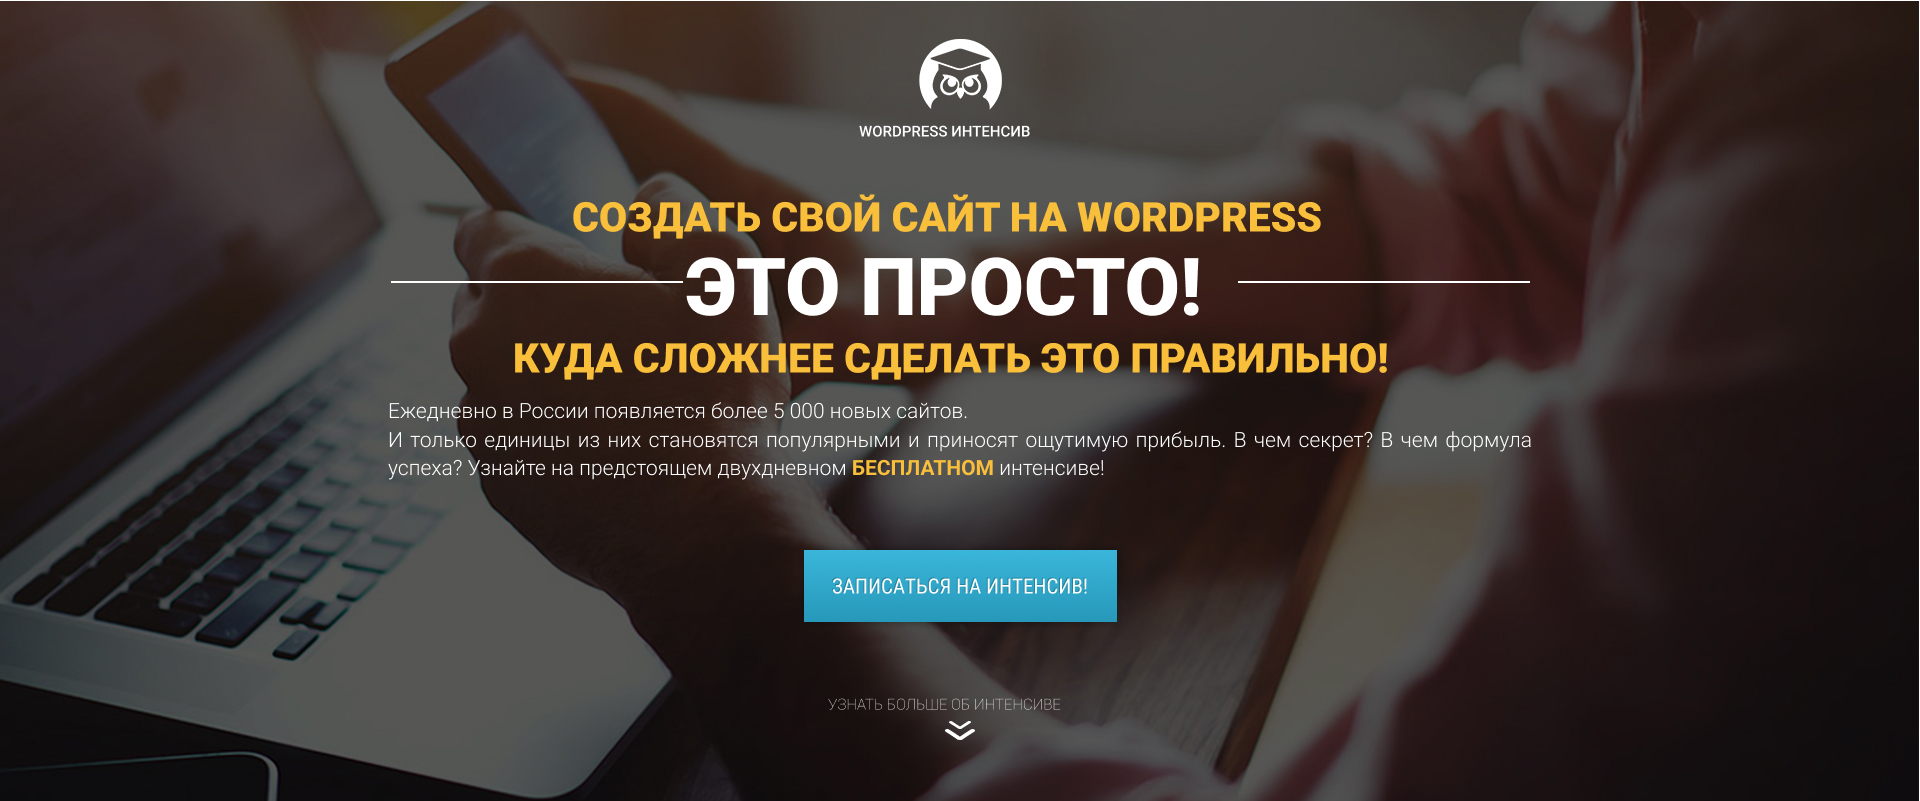
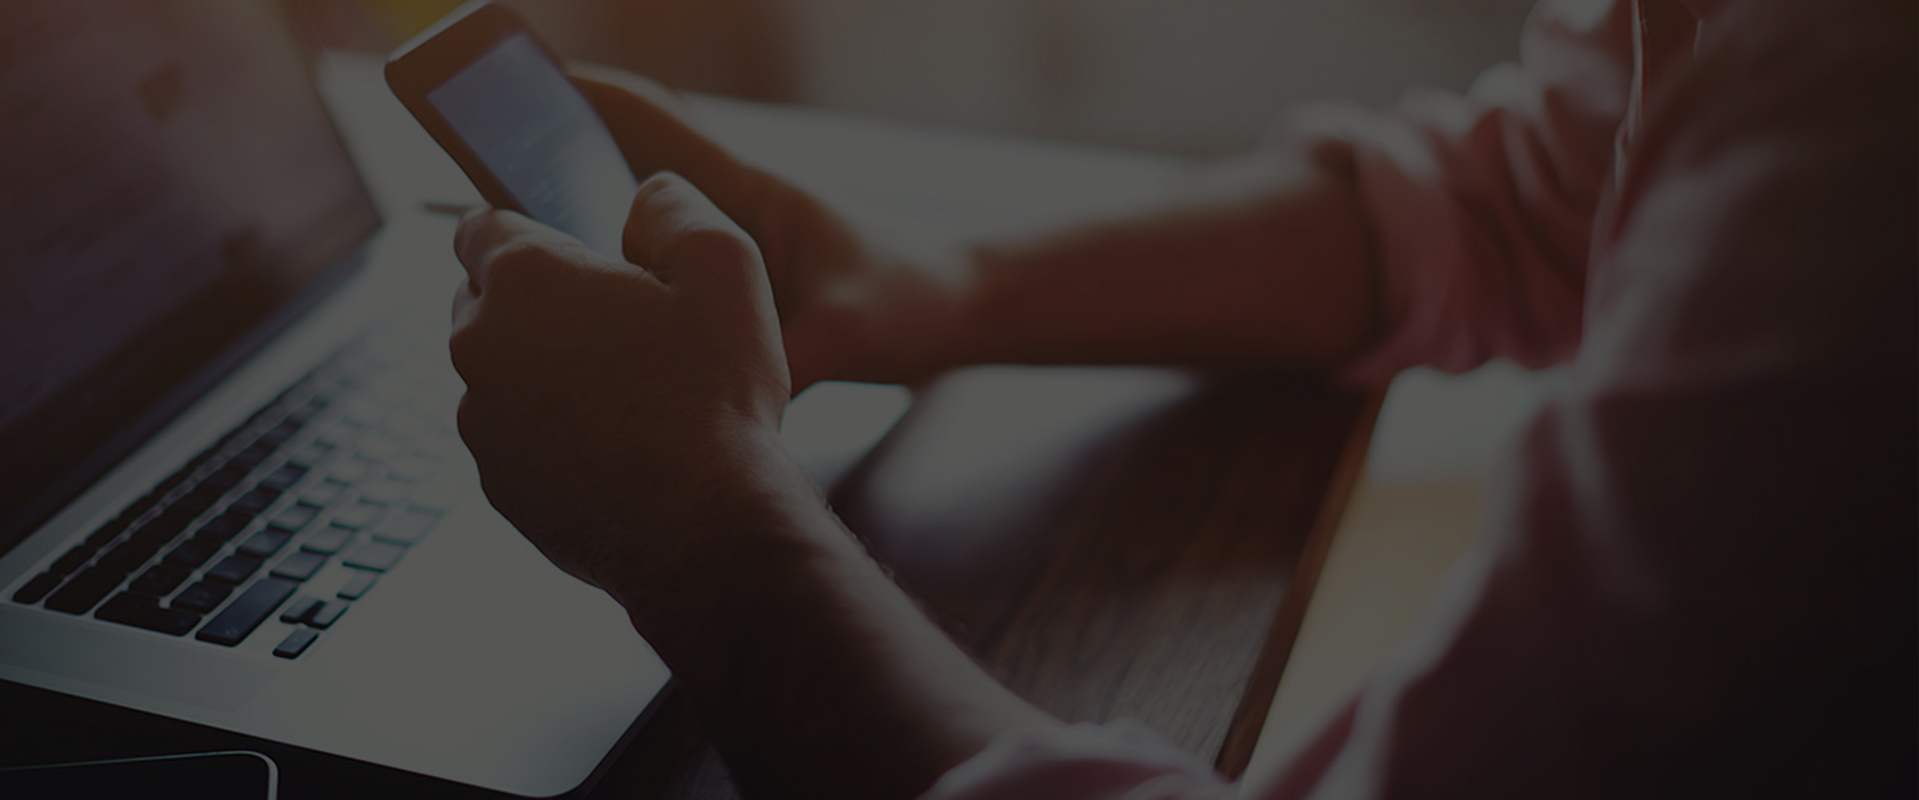
save from blackout

diff --git a/style.css b/style.css
@@ -1,1 +1,26 @@
-* {box-sizing: border-box;}
+* {
+  box-sizing: border-box;
+
+  margin: 0;
+  padding: 0;
+}
+
+.container {
+  width: 1140px;
+  margin: 0 auto;
+}
+
+.promo {
+  height: 800px;
+  background: url('img/main_bg.jpg') center center/cover no-repeat;
+}
+
+.logo .logo-img {
+  display: block;
+  margin: 0 auto;
+}
+
+.logo .logo-txt {
+  /* display: block; */
+  margin: 0 auto;
+}

diff --git a/index.html b/index.html
@@ -8,6 +8,13 @@
   <title>Wordpress интенсив</title>
 </head>
 <body>
-  
+  <section class="promo">
+    <div class="container">
+      <div class="logo">
+        <img class="logo-img" src="icons/logo.png" alt="logo">
+        <span class="logo-txt">WordPress интенсив</span>
+      </div>
+    </div>
+  </section>
 </body>
 </html>
